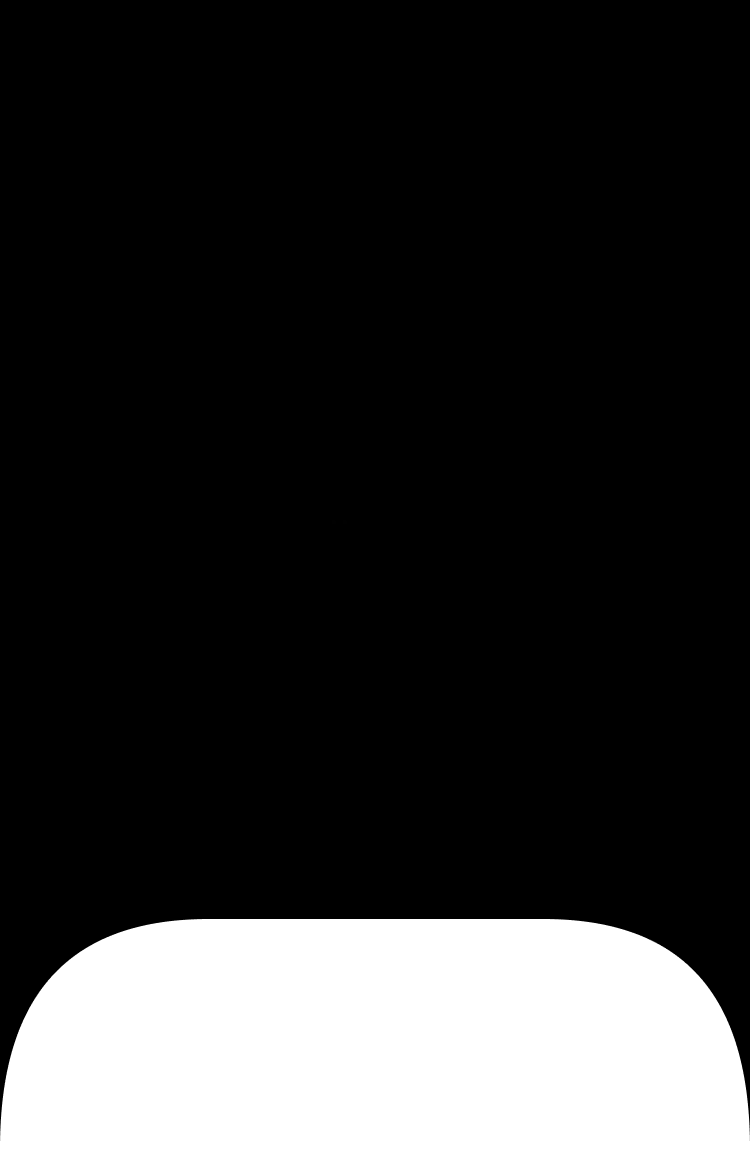
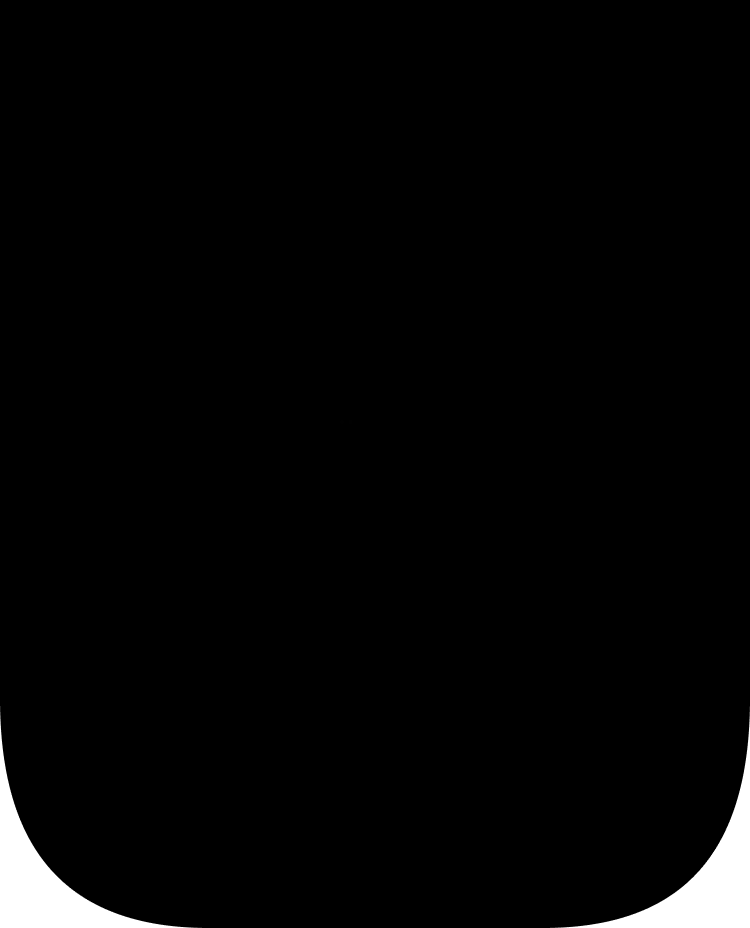
The first-screen mask and video match the updated Figma frame.

Changed region(s): [[0.0, 0.7812, 1.0, 1.0]]

diff --git a/styles.css b/styles.css
@@ -52,14 +52,8 @@ a { color: inherit; }
 .layer { position: relative; z-index: 2; }
 .layer a { pointer-events: auto; text-decoration: none; }
 :root {
-  --hero-h: calc(100vh - 258px);
-  --hero-video-h: calc(100vh - 140px);
-}
-@media (max-width: 768px) {
-  :root {
-    --hero-h: calc((100vh - 258px) / (100vw / 375px));
-    --hero-video-h: calc((100vh - 140px) / (100vw / 375px));
-  }
+  --hero-h: 464px;
+  --hero-video-h: 578.377px;
 }
 .hero-photo {
   position: absolute;
@@ -73,14 +67,17 @@ a { color: inherit; }
   mask-image: url("./assets/fig/hero-mask.png");
   -webkit-mask-repeat: no-repeat;
   mask-repeat: no-repeat;
-  -webkit-mask-position: center;
-  mask-position: center;
+  -webkit-mask-position: center top;
+  mask-position: center top;
   -webkit-mask-size: 100% 100%;
   mask-size: 100% 100%;
   -webkit-mask-mode: alpha;
   mask-mode: alpha;
 }
 .hero-photo video {
+  position: absolute;
+  left: 0;
+  top: -0.5px;
   display: block;
   width: 100%;
   height: var(--hero-video-h);
@@ -151,7 +148,7 @@ a { color: inherit; }
   text-box-trim: trim-both;
   text-box-edge: cap alphabetic;
 }
-.hero-title { top: calc(var(--hero-h) - 88px); }
+.hero-title { top: calc(var(--hero-h) + 40px); }
 .hero-title .hero-lead {
   margin: 12px 0 0;
   width: 237px;
@@ -165,7 +162,7 @@ a { color: inherit; }
   white-space: normal;
   font-feature-settings: normal;
 }
-.feature-cards { top: calc(var(--hero-h) + 44px); }
+.feature-cards { top: calc(var(--hero-h) + 172px); }
 .buy-cta {
   position: fixed;
   z-index: 40;
